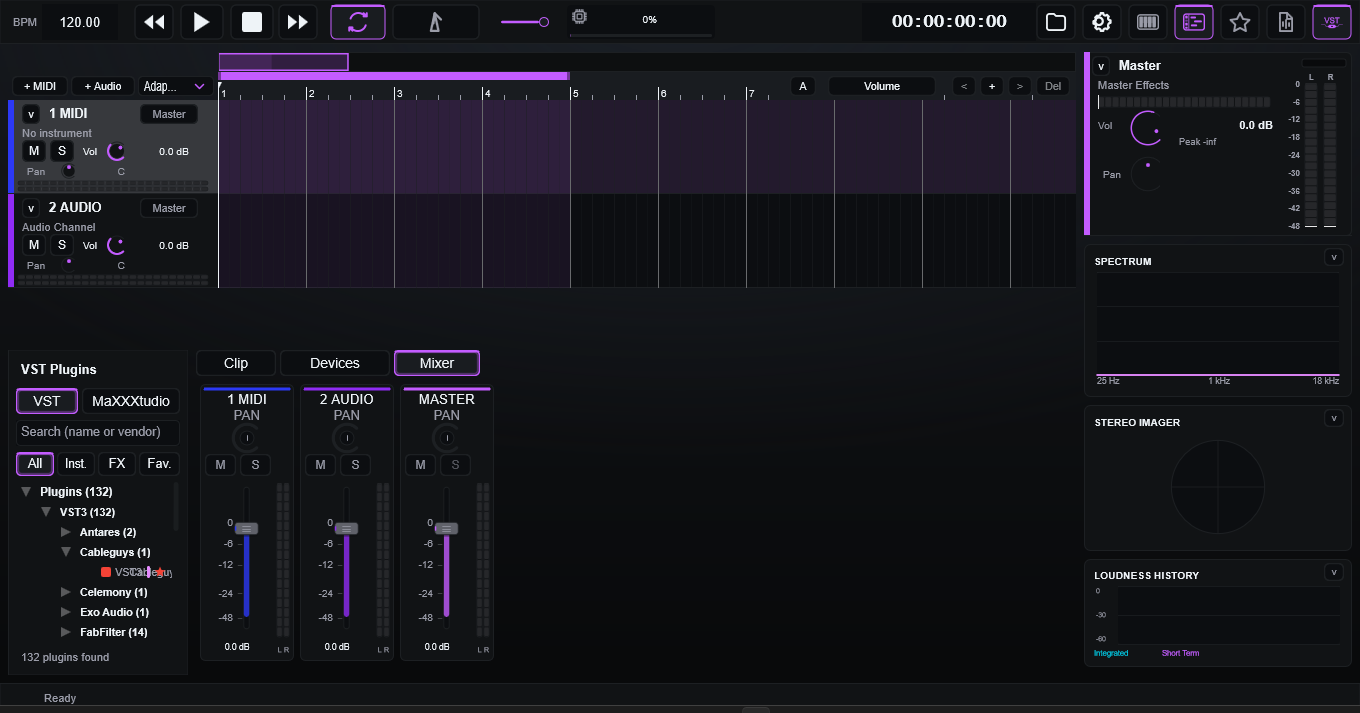
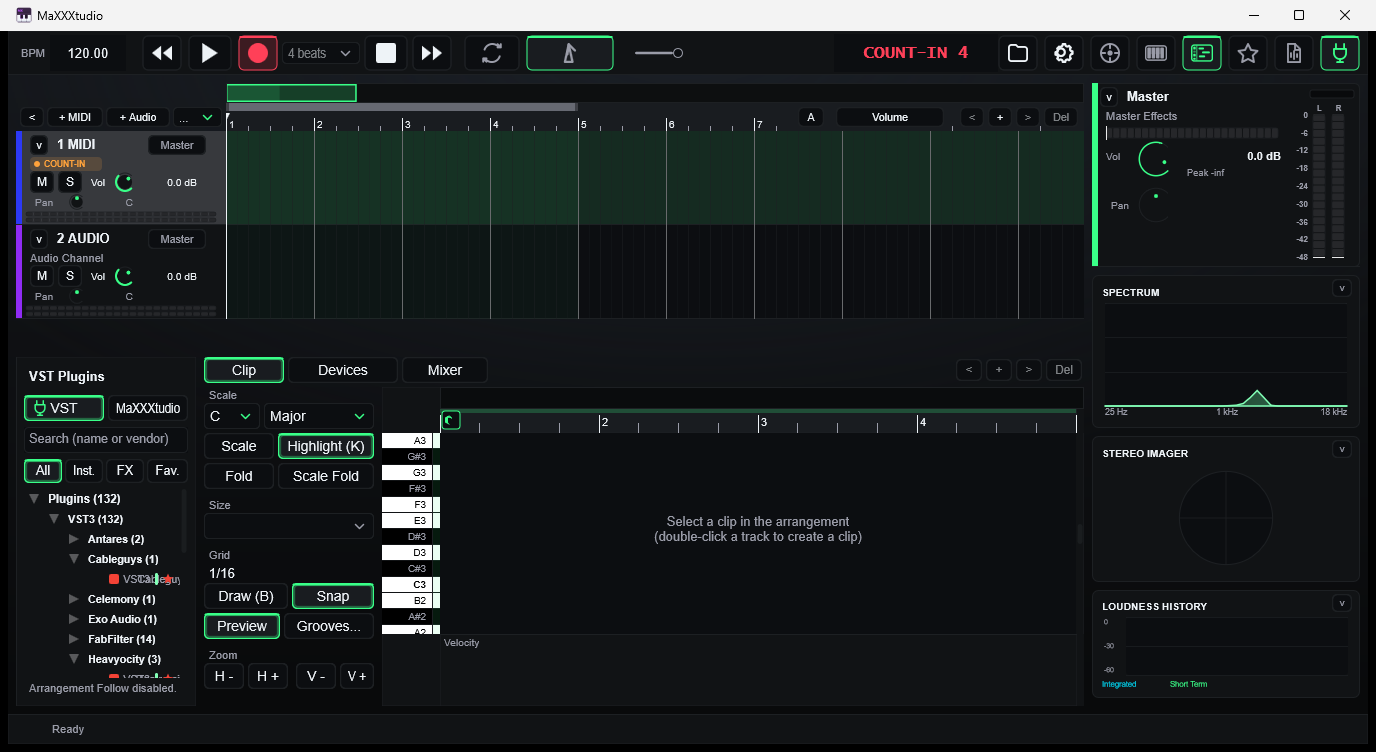
update: readme updated

diff --git a/app/NativeEffectProcessors.cpp b/app/NativeEffectProcessors.cpp
@@ -1344,20 +1344,37 @@ private:
         auto graph = content.reduced (30.0f, 0.0f);
         const float centreY = graph.getCentreY();
         const float halfHeight = graph.getHeight() * 0.5f;
+        const int count = static_cast<int> (waveform.size());
+        const int visibleCount = count > 0
+            ? std::max (1, juce::roundToInt (static_cast<double> (count) / zoomFactor)) : 0;
+        const int start = std::max (0, count - visibleCount);
+        float visiblePeak = 0.0f;
+        for (int index = start; index < count; ++index)
+        {
+            const auto& column = waveform[static_cast<std::size_t> (index)];
+            visiblePeak = std::max (visiblePeak,
+                std::max (std::abs (column.minimum), std::abs (column.maximum)));
+        }
+        const float displayGain = visiblePeak > 0.00001f
+            ? juce::jlimit (0.25f, 16.0f, 0.9f / visiblePeak) : 1.0f;
+        const float displayPeak = visiblePeak > 0.00001f
+            ? juce::jlimit (0.0f, 1.0f, visiblePeak * displayGain) : 1.0f;
+        const float peakDb = visiblePeak > 0.00001f
+            ? juce::Decibels::gainToDecibels (visiblePeak) : 0.0f;
         static constexpr std::array<float, 6> dbMarks {
             0.0f, -3.0f, -6.0f, -12.0f, -18.0f, -60.0f
         };
         g.setFont (theme::fontOptions (8.5f));
         for (const float db : dbMarks)
         {
-            const float amplitude = juce::Decibels::decibelsToGain (db);
+            const float amplitude = displayPeak * juce::Decibels::decibelsToGain (db);
             const float offset = amplitude * halfHeight;
             g.setColour (db == 0.0f ? theme::textDim().withAlpha (0.72f)
                                      : theme::border().withAlpha (0.5f));
             g.drawHorizontalLine (juce::roundToInt (centreY - offset), graph.getX(), graph.getRight());
             g.drawHorizontalLine (juce::roundToInt (centreY + offset), graph.getX(), graph.getRight());
             g.setColour (theme::textDim());
-            const auto label = db <= -60.0f ? "-inf" : juce::String (static_cast<int> (db));
+            const auto label = juce::String (static_cast<int> (std::round (peakDb + db)));
             g.drawText (label,
                         juce::Rectangle<float> (scope.getX() + 2.0f, centreY - offset - 6.0f,
                                                 25.0f, 12.0f),
@@ -1369,10 +1386,6 @@ private:
                             juce::Justification::centredLeft);
         }
 
-        const int count = static_cast<int> (waveform.size());
-        const int visibleCount = count > 0
-            ? std::max (1, juce::roundToInt (static_cast<double> (count) / zoomFactor)) : 0;
-        const int start = std::max (0, count - visibleCount);
         juce::Path reductionLine;
         if (visibleCount > 0)
         {
@@ -1395,10 +1408,12 @@ private:
                 const bool transient = peakAmplitude >= 0.025f
                     && peakAmplitude > peakSum / static_cast<float> (columnCount) * 1.65f;
                 const float x = graph.getX() + static_cast<float> (pixel);
-                const float top = centreY - juce::jlimit (0.0f, 1.0f, maximum) * halfHeight;
-                const float bottom = centreY - juce::jlimit (-1.0f, 0.0f, minimum) * halfHeight;
+                const float top = centreY
+                    - juce::jlimit (0.0f, 1.0f, maximum * displayGain) * halfHeight;
+                const float bottom = centreY
+                    - juce::jlimit (-1.0f, 0.0f, minimum * displayGain) * halfHeight;
                 const float amplitude = juce::jlimit (0.0f, 1.0f,
-                    std::max (std::abs (minimum), std::abs (maximum)));
+                    std::max (std::abs (minimum), std::abs (maximum)) * displayGain);
                 const auto waveformColour = juce::Colour (0xffa45bff)
                     .brighter (amplitude * 0.25f);
                 g.setColour (waveformColour.withAlpha (0.24f));
@@ -1419,6 +1434,12 @@ private:
             g.setColour (theme::recording());
             g.strokePath (reductionLine, juce::PathStrokeType (1.5f));
         }
+
+        g.setColour (theme::textDim());
+        g.setFont (theme::fontOptions (8.0f, juce::Font::bold));
+        g.drawText ("AUTO", graph.withX (graph.getRight() - 34.0f).withWidth (32.0f)
+                    .withY (graph.getY() + 2.0f).withHeight (10.0f),
+                    juce::Justification::centredRight, true);
 
         g.setColour (theme::textDim());
         g.setFont (theme::fontOptions (9.0f, juce::Font::bold));
@@ -1506,7 +1527,7 @@ private:
     std::vector<CompMasterProcessor::SidechainSource> sourceOptionsCache;
     juce::ComboBox sourceBox;
     juce::TextButton zoomIn, zoomOut, bypass, ab, resetButton;
-    double zoomFactor = 1.0;
+    double zoomFactor = 6.0;
 };
 
 class EqMasterEditor final : public juce::AudioProcessorEditor, private juce::Timer

diff --git a/README.md b/README.md
@@ -9,10 +9,18 @@ MaXXXtudio is a free, open-source, cross-platform DAW built with C++20 and JUCE 
 ## Current interface
 
 <p align="center">
-  <img src="app/assets/readme/interface-overview.png" alt="MaXXXtudio arrangement, plugin browser, and mixer" width="1000">
+  <img src="app/assets/readme/interface-overview.png" alt="MaXXXtudio arrangement with optional count-in, track recording status, plugin browser, and mixer" width="1000">
 </p>
 
 The main window includes the Arrangement view, plugin browser, mixer, and piano roll. The audio browser and device chain show audio files and VST3 plugins for the selected track.
+
+### Audio and MIDI recording
+
+Record audio from the selected input or MIDI from a connected controller. The optional count-in is selectable from the transport; the playhead starts after the countdown, and track headers show the current count-in or recording state.
+
+<p align="center">
+  <img src="app/assets/readme/recording-count-in.png" alt="Transport count-in and COUNT-IN status on the MIDI track" width="1000">
+</p>
 
 ### Moving plugin windows
 
@@ -27,6 +35,7 @@ This demonstration shows how to move between multiple open plugin windows when s
 ## Implemented features
 
 - **Arrangement:** MIDI and audio tracks, multiple clips, move/copy/duplicate, split, adaptive grid, locators, loop, overview, track collapse/expand, and optional playhead following.
+- **Recording:** audio and MIDI capture, optional selectable count-in, and visible count-in/recording status on tracks.
 - **Piano roll:** create and edit notes, velocity editing, quantization, selection, scales, Fold, highlighting, MIDI grooves, computer-keyboard input, and horizontal/vertical zoom.
 - **Audio editing:** split and join clips, adjust clip edges, fades, transient analysis, and manual Auto-Warp using the detected source BPM. The first analyzed sample can set the project tempo; later samples follow it. Time-stretching is currently limited to Re-Pitch mode, which changes pitch.
 - **Selection and shortcuts:** select clips and time ranges, select multiple tracks, copy/cut/paste, duplicate, and group/ungroup tracks.
@@ -35,7 +44,7 @@ This demonstration shows how to move between multiple open plugin windows when s
 - **VST3 plugins:** background scanning, favorites, custom folders, isolated worker execution, and project crash recovery.
 - **Navigation:** browse plugins by folder, label, and type; browse audio files; color-code favorites; search, preview, and navigate history.
 - **MIDI grooves:** import `.agr` files, browse and preview the library, and apply grooves.
-- **Native tools:** Drum Master, Volume Master, Comp Master, EQ Master, and Reference Master.
+- **Native tools:** Drum Master, Volume Master, Comp Master with output gain and an auto-scaled oscilloscope, EQ Master, and Reference Master.
 - **Projects:** save and open `.std` files, autosave and recover sessions, undo/redo, and export 24-bit WAV files.
 - **Visual identity:** custom themes, control states, tooltips, vector icons, and a neon-accent color palette.
 
